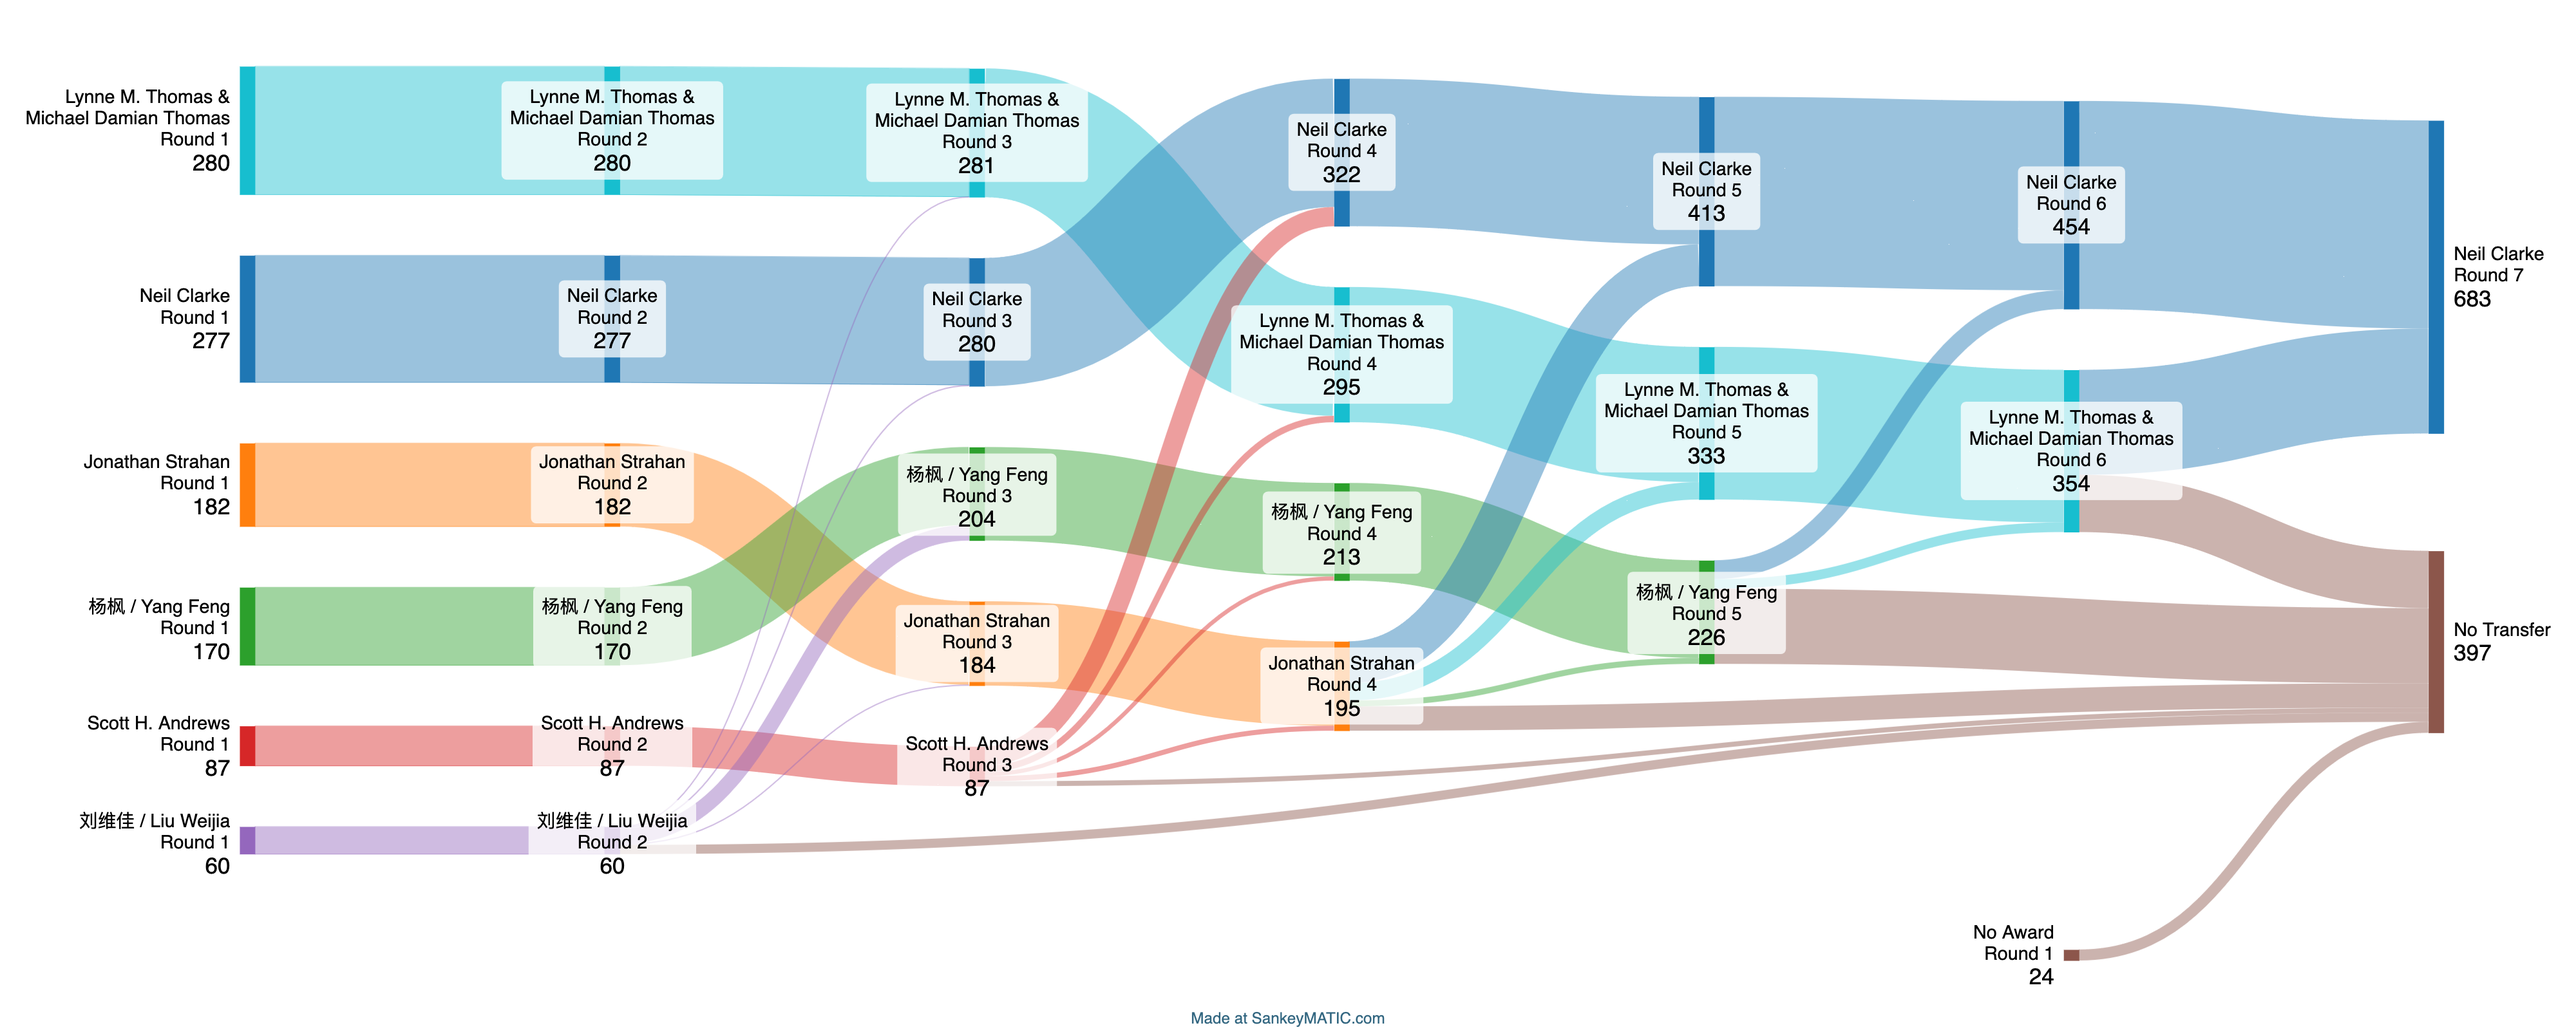
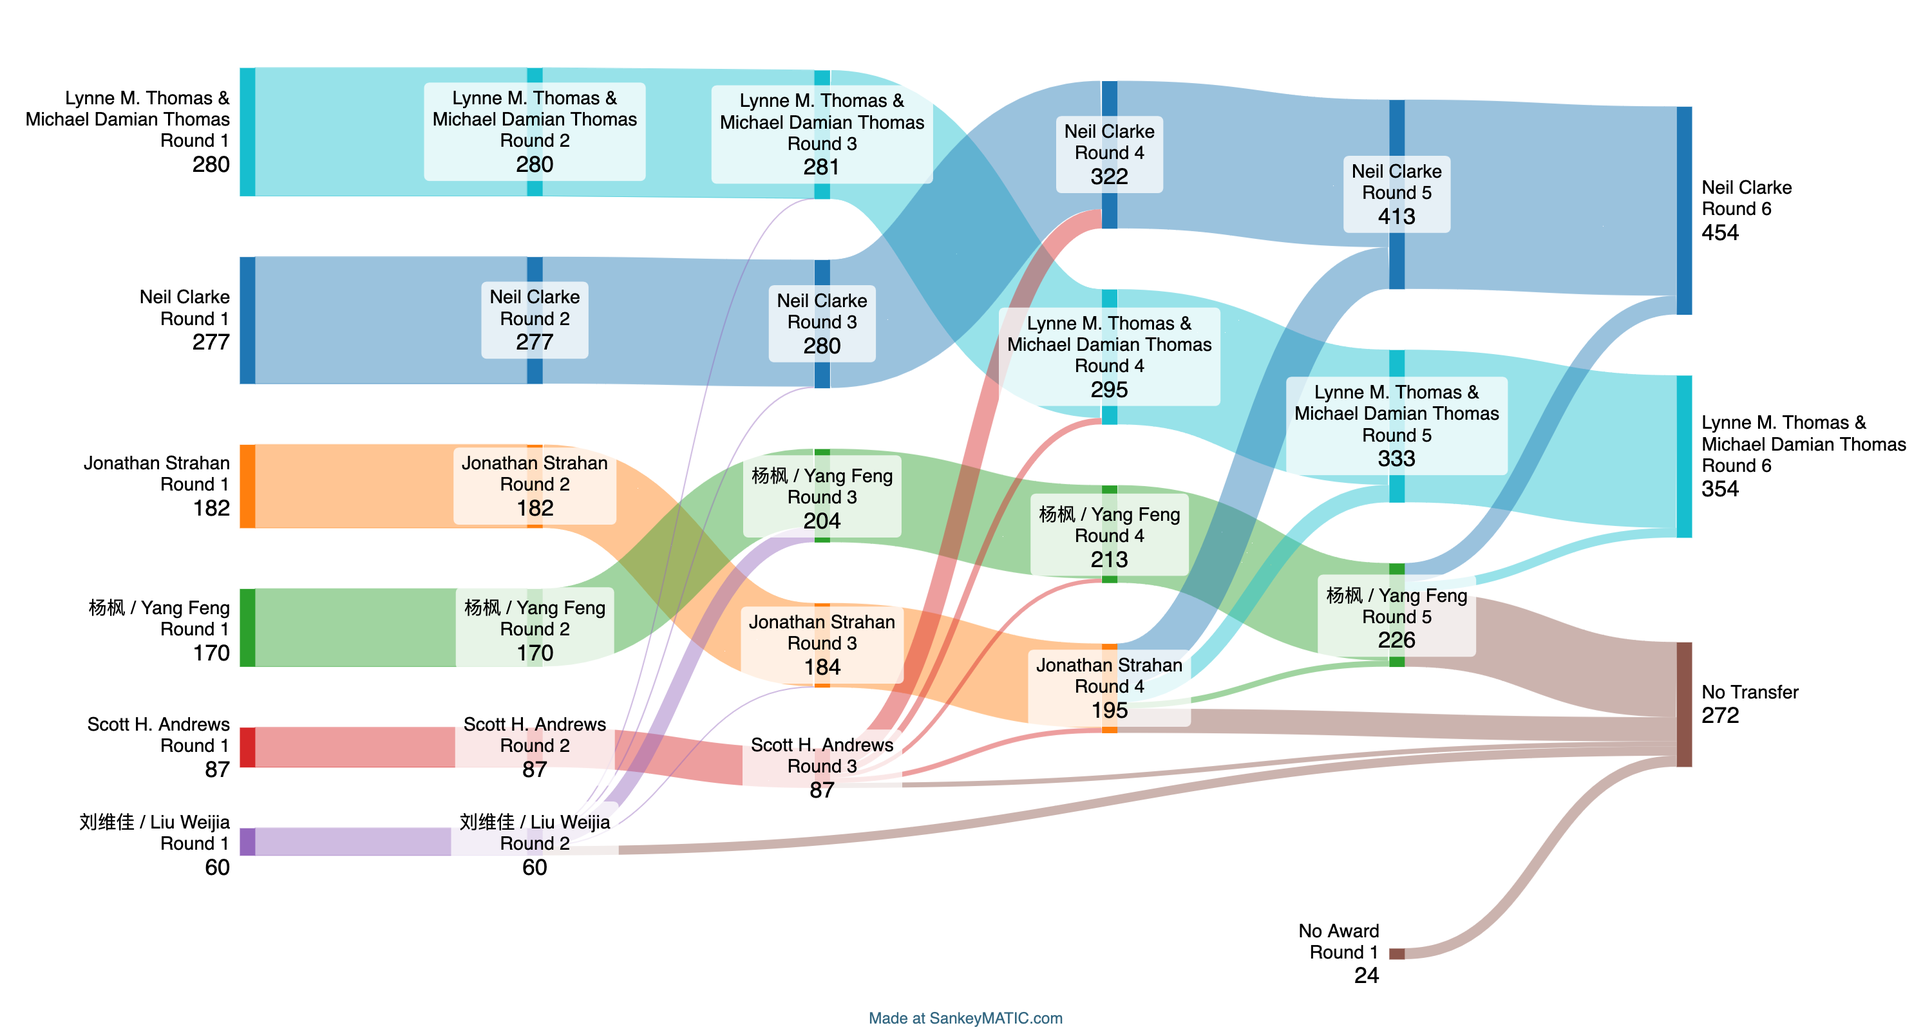
Various fixes and updates

diff --git a/generate_sankey.py b/generate_sankey.py
@@ -141,7 +141,7 @@ def print_transfers(candidates, rounds, eph, offset):
         for c in sorted_candidates:
             if len(candidates[c]) > i+1:
                 # Transfer all the existing votes for this candidate to the next round
-                output += f"{c}\\nRound {i + 1} [{vote_fmt(candidates[c][i], eph)}] {c}\\nRound {i + 2}\n"
+                output += f"{c}\\nRound {i + 1 + offset} [{vote_fmt(candidates[c][i], eph)}] {c}\\nRound {i + 2 + offset}\n"
             else:
                 # Eliminate a candidate and transfer their votes, based on the diff to the next
                 # round totals. Order matters here to put flows in the correct order on the output
